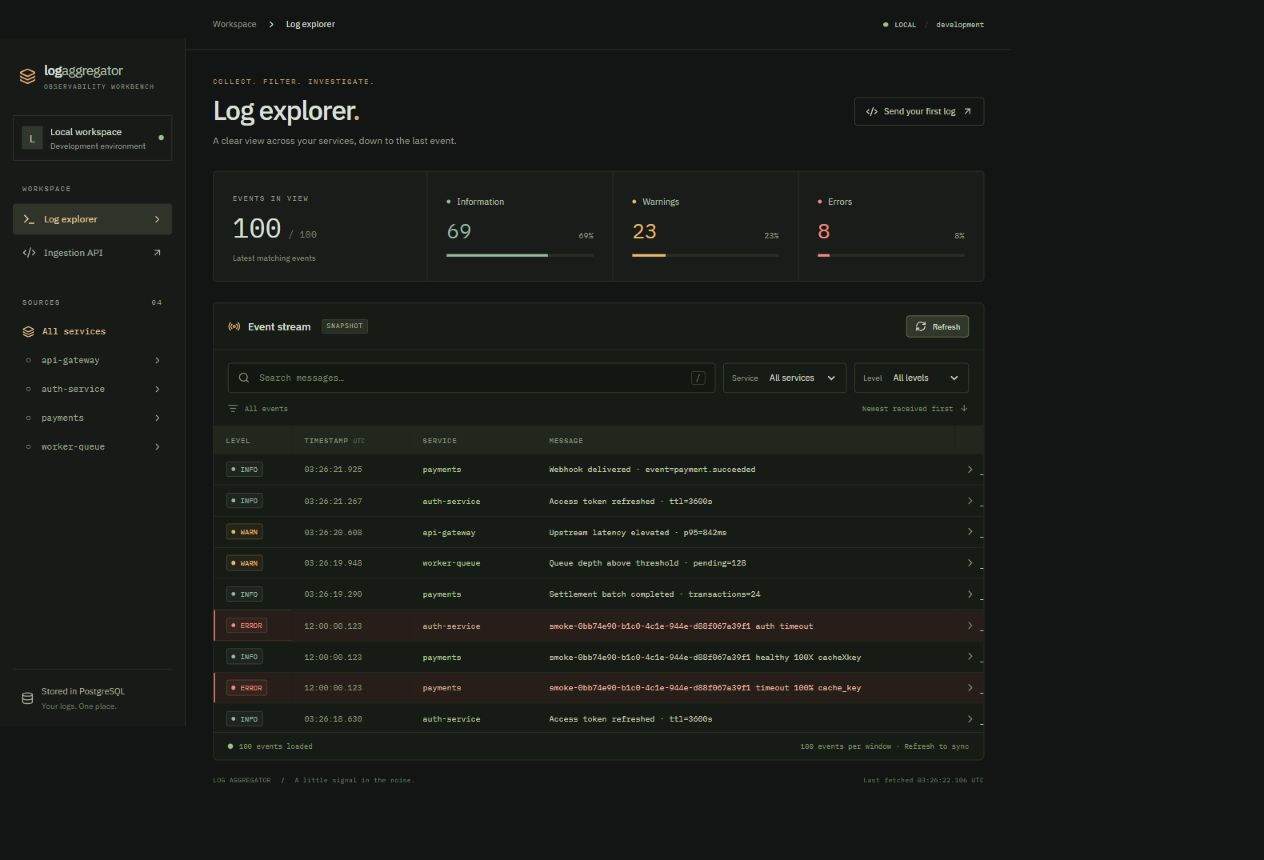
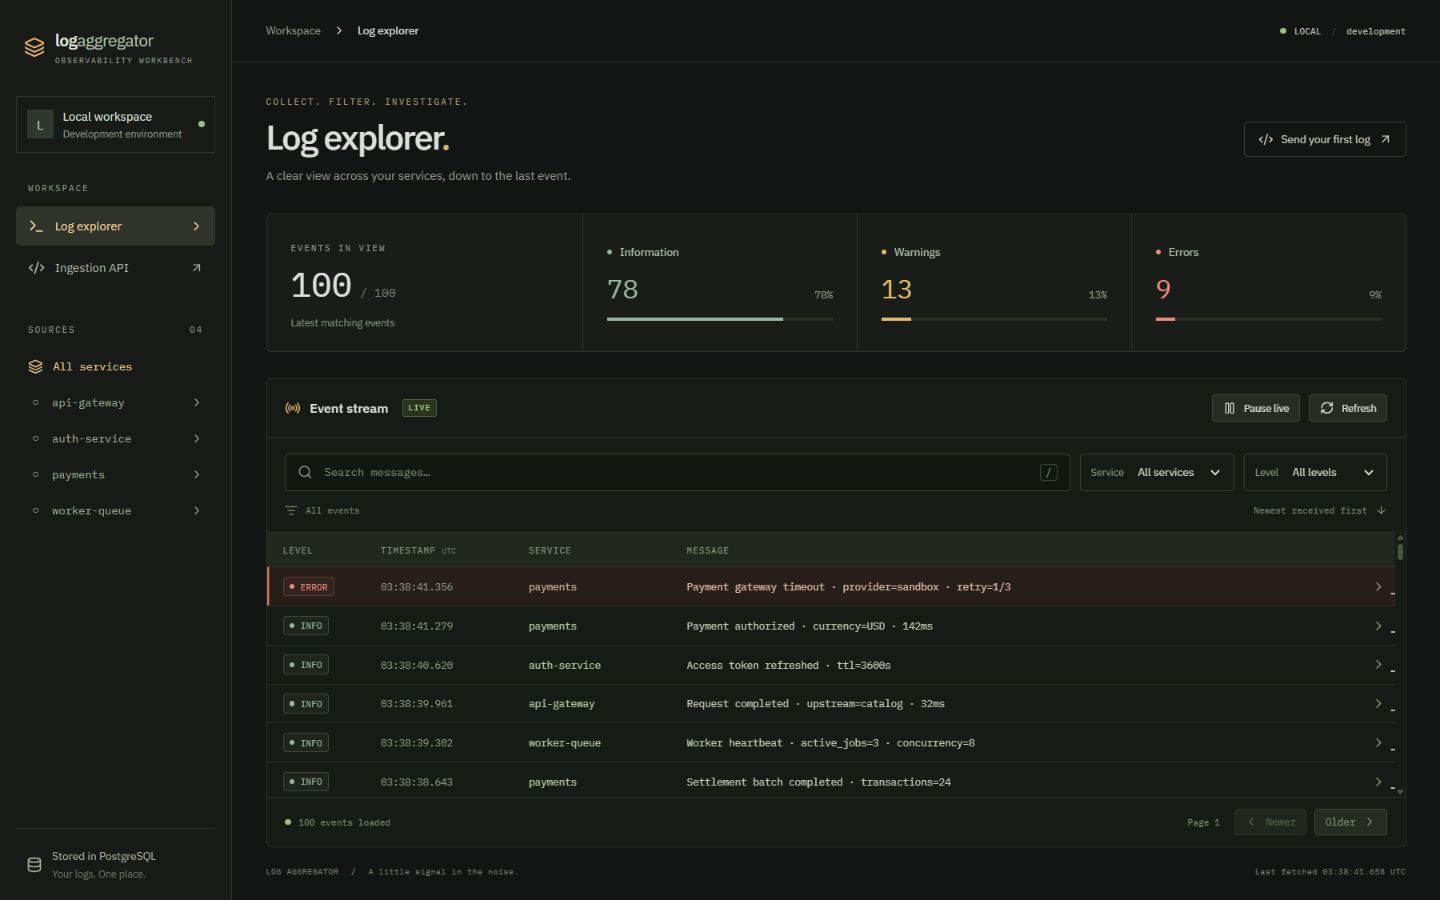
docs: document live architecture and verified delivery

diff --git a/README.md b/README.md
@@ -50,7 +50,9 @@ docker compose down                # Stop containers; preserve stored logs
 - Metrics describe the **displayed window**, not total database volume.
 - Event timestamps are displayed in UTC. Ordering uses the ingestion ID, so delayed events appear at the top.
 
-The MVP displays up to 100 matching events and refreshes explicitly. Socket.io streaming and cursor pagination are the next milestone, gated on successful Docker MVP verification.
+Live mode updates automatically through Socket.io. **Pause live** freezes the view for investigation; **Older** and **Newer** navigate 100-event cursor pages. Paging automatically pauses streaming. **Resume live** returns to the latest page and catches up. Changing filters resets the page history.
+
+The Docker MVP is preserved at tag [`v0.1.0`](https://github.com/lrosse/log-aggregator/tree/v0.1.0). Streaming and pagination were added only after that milestone was running, browser-verified and committed.
 
 ## Architecture
 
@@ -61,15 +63,17 @@ flowchart LR
   A -->|Parameterized SQL| P[(PostgreSQL)]
   B[React dashboard] -->|Same-origin /api| N[nginx]
   N --> A
+  A -->|Socket.io notification via nginx| B
 ```
 
-| Layer    | Stack                                                                            |
-| -------- | -------------------------------------------------------------------------------- |
-| Backend  | Node.js 24 LTS, TypeScript 5.9, Express 5, Zod, node-postgres, Helmet            |
-| Database | PostgreSQL 17, SQL migrations, `pg_trgm`                                         |
-| Frontend | React 19, TypeScript, Vite, custom CSS, Lucide icons, self-hosted IBM Plex fonts |
-| Runtime  | Multi-stage Docker builds, Docker Compose, unprivileged nginx                    |
-| Quality  | ESLint 10, Prettier, Vitest, Supertest, React Testing Library, GitHub Actions    |
+| Layer     | Stack                                                                            |
+| --------- | -------------------------------------------------------------------------------- |
+| Backend   | Node.js 24 LTS, TypeScript 5.9, Express 5, Zod, node-postgres, Helmet            |
+| Database  | PostgreSQL 17, SQL migrations, `pg_trgm`                                         |
+| Real-time | Socket.io 4, WebSocket upgrade through nginx, reconnect reconciliation           |
+| Frontend  | React 19, TypeScript, Vite, custom CSS, Lucide icons, self-hosted IBM Plex fonts |
+| Runtime   | Multi-stage Docker builds, Docker Compose, unprivileged nginx                    |
+| Quality   | ESLint 10, Prettier, Vitest, Supertest, React Testing Library, GitHub Actions    |
 
 ### Decisions and tradeoffs
 
@@ -77,6 +81,8 @@ flowchart LR
 - **PostgreSQL instead of a search cluster.** Relational storage is sufficient for a portfolio workload and simple to operate. Composite service/ID and level/ID indexes support filters; a trigram GIN index supports substring search. Short searches may still scan many rows.
 - **Migrate before readiness.** Ordered SQL migrations execute in a transaction protected by an advisory lock. A named volume persists data. Health checks and `service_healthy` dependencies prevent startup races; see [Docker's startup-order documentation](https://docs.docker.com/compose/how-tos/startup-order/).
 - **Acknowledge after persistence.** `201 Created` means the insert succeeded. The sender supplies event time; PostgreSQL records `receivedAt`. IDs are strings to avoid JavaScript integer precision loss.
+- **Socket.io rather than periodic polling.** A persisted insert sends a lightweight `logs:created` notification containing its ID. The browser coalesces notifications for 350 ms and serializes HTTP reads to avoid overlapping requests. PostgreSQL remains the authority for filters; inactive sources do not cause a polling loop. Socket.io reconnects automatically, and each connection/resume reloads the latest matching window. Notifications are not durable or guaranteed; see [Socket.io delivery guarantees](https://socket.io/docs/v4/delivery-guarantees/). Older missed records remain available through pagination, not an unlimited in-memory replay.
+- **Keyset rather than offset pagination.** `before=<id>` queries use `logs.id < cursor` and numeric descending order. New arrivals do not shift older pages. This is not a transactionally frozen database snapshot, and multiple backend replicas would require shared notification fanout.
 - **Same-origin browser traffic.** nginx forwards `/api` to the backend without permissive CORS. Docker DNS is re-resolved so the proxy survives backend container recreation.
 - **Dense, restrained UI.** Charcoal/olive neutrals, amber accents, semantic severity colors, compact rows, a native keyboard-accessible dialog and locally served typography. No external fonts or analytics requests.
 - **Local exposure.** Published ports bind to `127.0.0.1`; PostgreSQL has no host port. Backend, generator and nginx processes run without root privileges.
@@ -100,7 +106,7 @@ $event = @{
   message = 'Payment authorized'
   timestamp = [DateTime]::UtcNow.ToString('o')
 } | ConvertTo-Json
-Invoke-RestMethod http://localhost:3001/logs -Method Post -ContentType 'application/json' -Body $event
+Invoke-RestMethod http://127.0.0.1:3001/logs -Method Post -ContentType 'application/json' -Body $event
 ```
 
 | Required field | Rules                                                                                  |
@@ -118,7 +124,7 @@ Unknown fields and invalid input return `400`; non-JSON content returns `415`; b
 GET /logs?service=payments&level=error&q=timeout&limit=50
 ```
 
-Filters are optional and combined with AND. `limit` defaults to 100 and accepts integers from 1 to 200. Responses contain `{ "logs": [...] }`, newest ingestion first. Each record adds string `id` and UTC `receivedAt` to the input fields. SQL parameters and escaped LIKE metacharacters protect search queries.
+Filters are optional and combined with AND. `limit` defaults to 100 and accepts integers from 1 to 200. Responses contain `{ "logs": [...], "nextCursor": "123" }`, newest ingestion first. Request the next page with `before=123`, keeping the same filters and limit. `nextCursor: null` means there are no older matching records. Cursors are positive PostgreSQL BIGINT strings, never floating-point numbers. Each record adds string `id` and UTC `receivedAt` to the input fields. SQL parameters and escaped LIKE metacharacters protect search queries.
 
 `GET /services` returns `{ "services": ["api-gateway", ...] }` alphabetically. `GET /health` returns `200 {"status":"ok"}` only when the logs table is reachable, otherwise `503`.
 
@@ -135,6 +141,8 @@ Copy `.env.example` to `.env` only to change defaults. Compose reads it automati
 
 Compose supplies backend `DATABASE_URL`/`PORT` and generator `API_URL`. No secrets are compiled into the frontend. Changing the password after database initialization does not change the stored PostgreSQL role; update it explicitly or intentionally recreate a disposable volume.
 
+Compose also sets `ALLOWED_ORIGINS` for Socket.io to the configured local dashboard port and the Vite development port. Non-browser clients may omit `Origin`; unlisted browser origins are rejected at the handshake. For a backend run outside Compose, configure this comma-separated origin list yourself if needed. An origin allowlist is not authentication.
+
 ## Development and verification
 
 For host-side checks, install Node.js 24 and npm:
@@ -149,7 +157,9 @@ npm run smoke          # Real PostgreSQL + HTTP + nginx + generated services
 
 The smoke test inserts marked synthetic events into the existing demo services and never deletes data. Set `SMOKE_API_URL`/`SMOKE_WEB_URL` for custom ports.
 
-Tests cover ingest validation, malformed/oversized requests, safe errors, SQL parameters, literal search, combined UI filters, empty results, retry after connection failure and deterministic generator scenarios. The smoke test checks real persistence, combined filters, timestamp normalization, ordering, all four generated services and the nginx proxy. CI repeats formatting, lint, tests, builds and Compose smoke checks on a clean Linux runner.
+See the [verification record](docs/verification.md) for the browser, persistence and restart checks and the limits of what was tested.
+
+The 47 tests cover ingest validation, malformed/oversized requests, safe errors, SQL parameters, literal search, cursor bounds, actual WebSocket delivery/origin rejection, combined UI filters, empty results, retry, live updates, reconnect reconciliation, stale-request cancellation, pagination resets and deterministic generator scenarios. The smoke test checks real persistence, combined filters, timestamp normalization, ordering across numeric ID boundaries, pagination during new arrivals, all four generated services and Socket.io over the nginx WebSocket proxy. CI repeats formatting, lint, tests, builds and Compose smoke checks on a clean Linux runner.
 
 For frontend hot reload, keep the Compose API on port 3001 and run `npm run dev -w @log-aggregator/frontend`, then open [localhost:5173](http://localhost:5173). Vite proxies `/api` to the backend. For backend-only development, set `DATABASE_URL` to your development PostgreSQL instance and run `npm run dev -w @log-aggregator/backend`; migrations run on startup.
 

diff --git a/docs/verification.md b/docs/verification.md
@@ -1,0 +1,36 @@
+# Verification record
+
+Verified on 2026-08-26. All sample events are synthetic.
+
+## Automated checks
+
+- `npm run check`: ESLint, 47 Vitest tests and all three workspace builds pass.
+- `npm run format:check`: source and documentation formatting pass.
+- `npm audit --audit-level=high`: no known dependency vulnerabilities reported at verification time.
+- `docker compose up --build -d --wait`: database, backend, frontend and generator become healthy without a pre-existing project database or an `.env` file.
+- `npm run smoke`: HTTP validation, persisted PostgreSQL filters, literal substring search, UTC normalization, numeric ID ordering, cursor pages during concurrent arrivals, all four generator sources, nginx API proxy and Socket.io WebSocket notification pass.
+- GitHub Actions runs these checks (except the dependency audit) on a clean Linux runner. The [workflow history](https://github.com/lrosse/log-aggregator/actions/workflows/ci.yml) records each pushed revision.
+
+## Browser checks against the Docker stack
+
+- Four generated services are present and logs are visible.
+- Service, severity and text filters work together; no-match searches show a recoverable empty state.
+- Event details and the ingestion reference open and close correctly.
+- With a service/severity/text filter active, a newly ingested event appears without reloading the page.
+- Pausing hides subsequent arrivals; resuming fetches them.
+- Older-page navigation returns another 100 rows with no ID overlap with the first page and pauses streaming.
+- The browser reconnects and resumes displaying events after restarting the backend.
+- Narrow (390 px) and desktop (1440 px) layouts were inspected. On narrow screens, the table scrolls horizontally while filters remain available.
+
+## Persistence and restart
+
+Two uniquely marked events were queried before and after restarting the database and backend. Both remained stored. The generator resumed ingestion and all four containers returned to healthy status. A restart can briefly return a proxy 502 until DNS/connections recover; the smoke script gives readiness up to 20 seconds before running its assertions. In live mode, the browser reconnects and refreshes; in paused mode, use Refresh if a manual read coincides with an outage.
+
+## Milestones
+
+- `v0.1.0`: Docker MVP, filters, generator, tests and README screenshot; verified before beginning real-time work.
+- Subsequent commits: cursor pagination, Socket.io, pause/resume, reconnection and additional regression tests.
+
+## Not claimed
+
+No throughput benchmark, production security review, multi-replica delivery, load test, retention policy or exactly-once ingestion guarantee. The chart over time was optional and is not implemented; severity bars summarize only the visible page.
